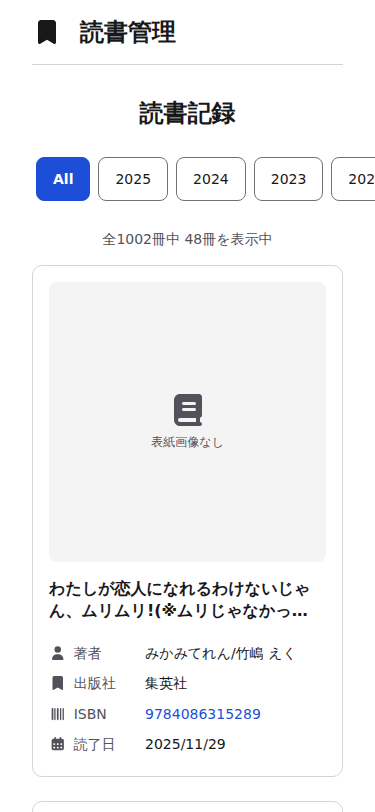
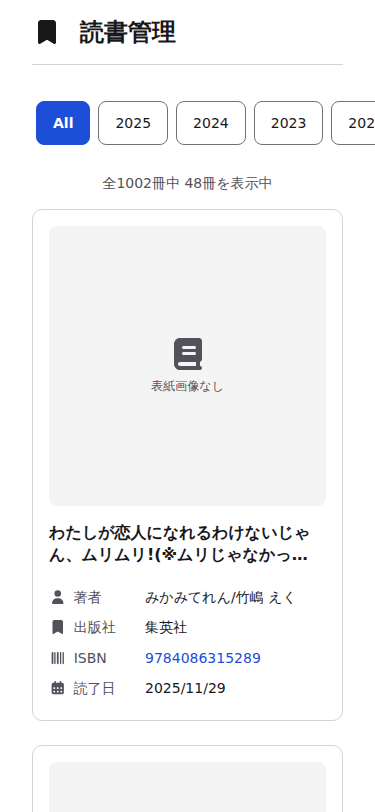
fix(ui): 一覧の見出しがヘッダーのサイト名と重複するため非表示にする
ヘッダーに「読書管理」があるため、メイン領域の「読書記録」は視覚的に
冗長だった。ただし h1 を削除すると見出しジャンプの起点が消えるため、
sr-only にして支援技術からのみ辿れる形で残す。

Claude-Session: https://claude.ai/code/session_01Xr51mSbJJTB3eMJ4ezQyAr

diff --git a/src/pages/index.tsx b/src/pages/index.tsx
@@ -20,8 +20,12 @@ export default function Home({
 
   return (
     <MainLayout>
-      {/* ページ内に h1 が存在しないと見出しジャンプの起点がなくなる */}
-      <h1 className="mb-6 text-center text-2xl font-bold">読書記録</h1>
+      {/*
+       * ヘッダーのサイト名と内容が重複するため視覚的には出さない。
+       * ただし h1 が無いと見出しジャンプの起点が消えるので、
+       * 支援技術には見える sr-only として残す。
+       */}
+      <h1 className="sr-only">読書記録</h1>
 
       <YearFilter
         selectedYear={selectedYear}
